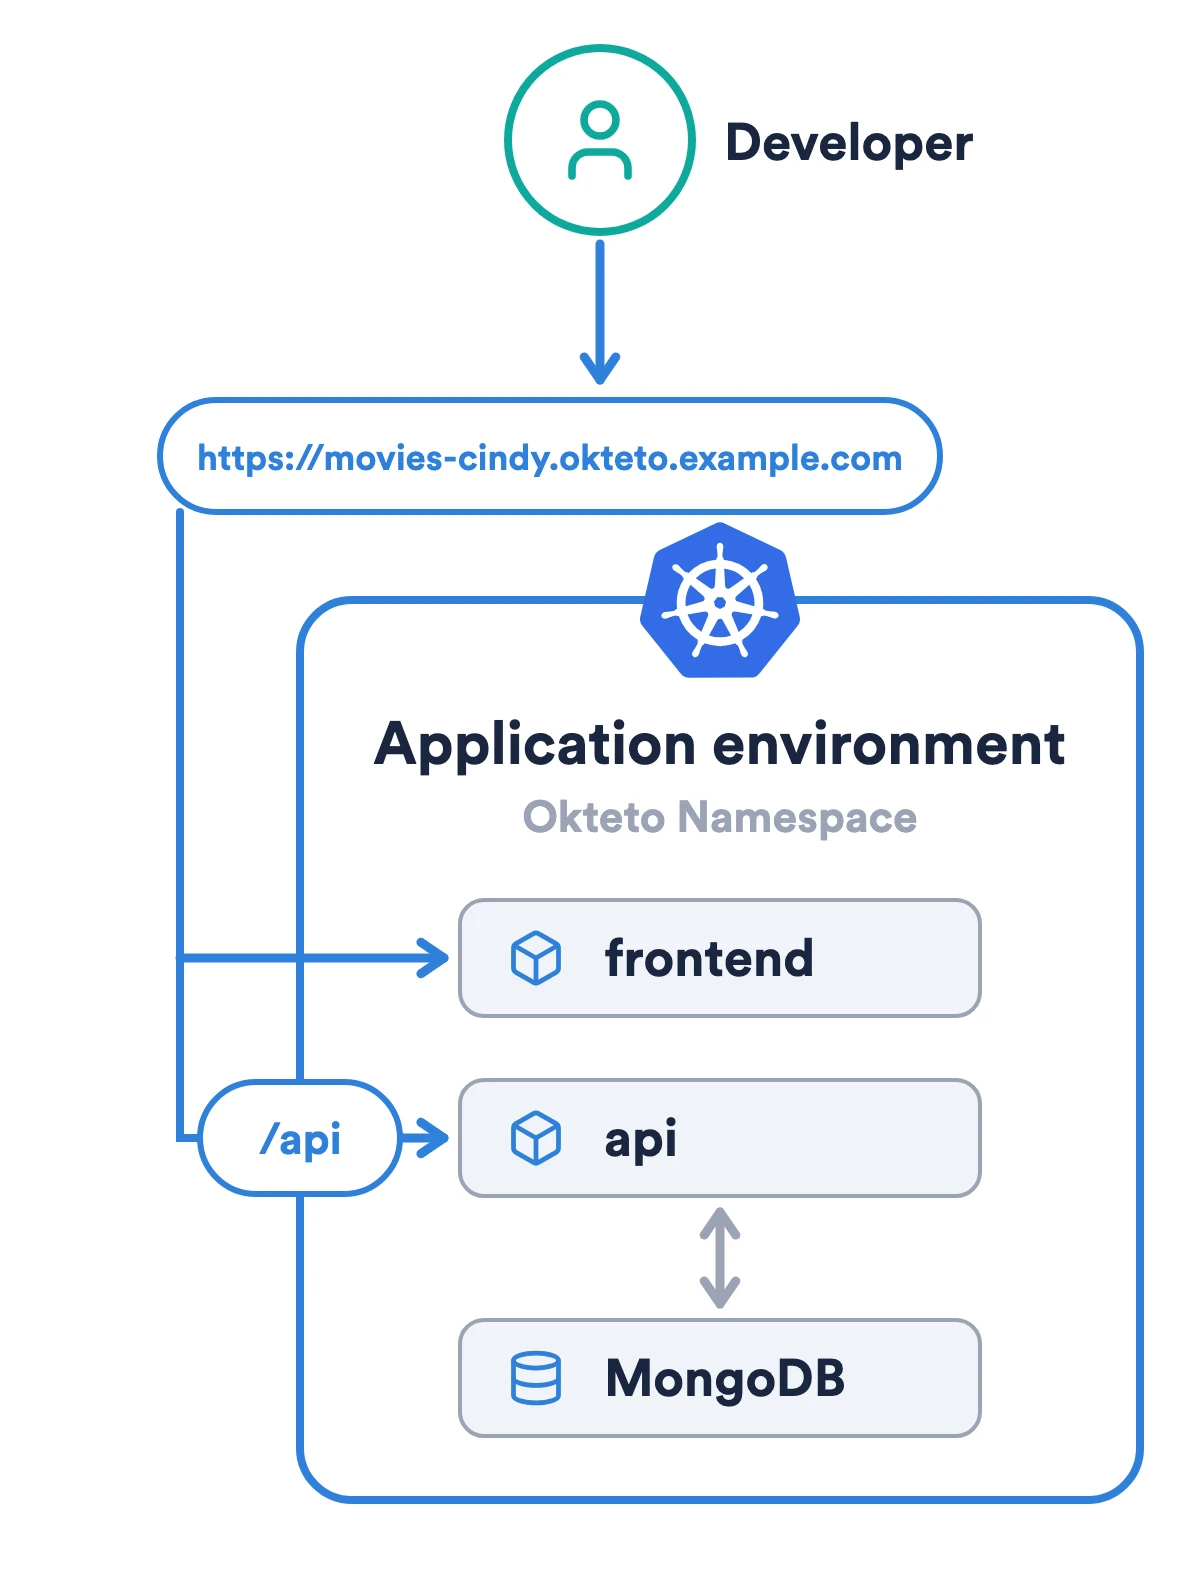
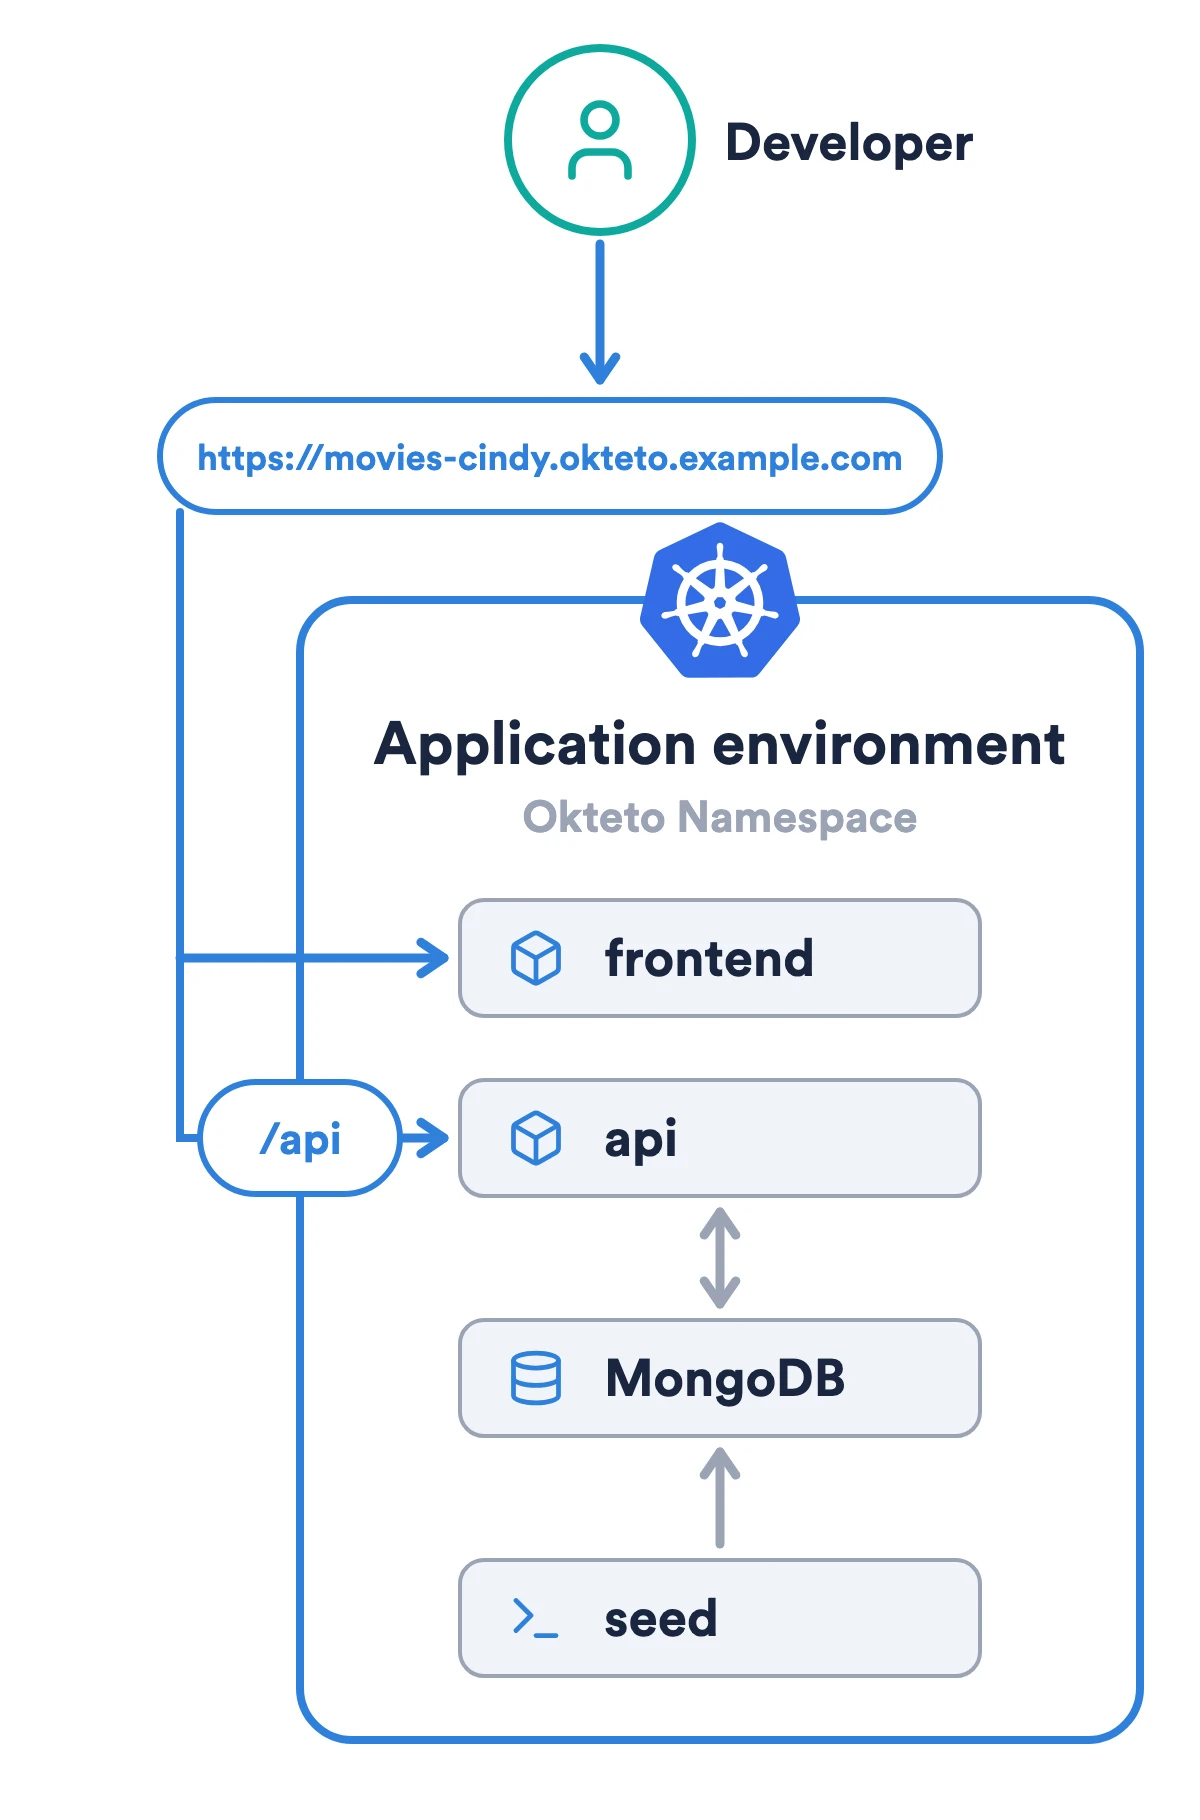
Quickstart: the seed job as a component, and wording of the introduction

diff --git a/STYLE_GUIDE.md b/STYLE_GUIDE.md
@@ -278,7 +278,7 @@ Use these terms exactly as written. Capitalization matters.
 
 | Term | When to use |
 |------|-------------|
-| **application environment** | Lowercase. The term for what Okteto deploys: your application, with its services and the dependencies that run next to them in the cluster, such as databases and queues, in a Namespace, from the Okteto Manifest. Describe it in terms of Kubernetes only: resources outside the cluster, such as a storage bucket or a managed database, belong to the External Resources page, not to the definition of an application environment. It's the same environment for developers, pull requests, and coding agents: a developer's environment is an application environment too. Preview Environments are application environments. What `okteto deploy` creates from a repository is an application environment too, with the name of the repository by default: write "the name of the application environment", not "of the application". Don't confuse it with the agent sandbox, where a coding agent runs. |
+| **application environment** | Lowercase. The term for what Okteto deploys: your application, with its services and their dependencies, such as databases and queues, in a Namespace, from the Okteto Manifest. Describe it in terms of Kubernetes only: resources outside the cluster, such as a storage bucket or a managed database, belong to the External Resources page, not to the definition of an application environment. It's the same environment for developers, pull requests, and coding agents: a developer's environment is an application environment too. Preview Environments are application environments. What `okteto deploy` creates from a repository is an application environment too, with the name of the repository by default: write "the name of the application environment", not "of the application". Don't confuse it with the agent sandbox, where a coding agent runs. |
 | **Development Environment** | Don't use it. The environment a developer works in is the whole application environment, and `okteto up` doesn't create a different kind of environment: it replaces one service of the application environment with a Development Container. Write "your application environment": "Okteto exposes the endpoints of your application environments", not "of your Development Environments". Keep it only when you quote a UI label verbatim. |
 | **Preview Environment** | Capitalized when referring to the Okteto feature. Lowercase when generic. |
 | **Namespace** | Capitalize when referring to an Okteto Namespace. Lowercase for generic Kubernetes namespace references. |
